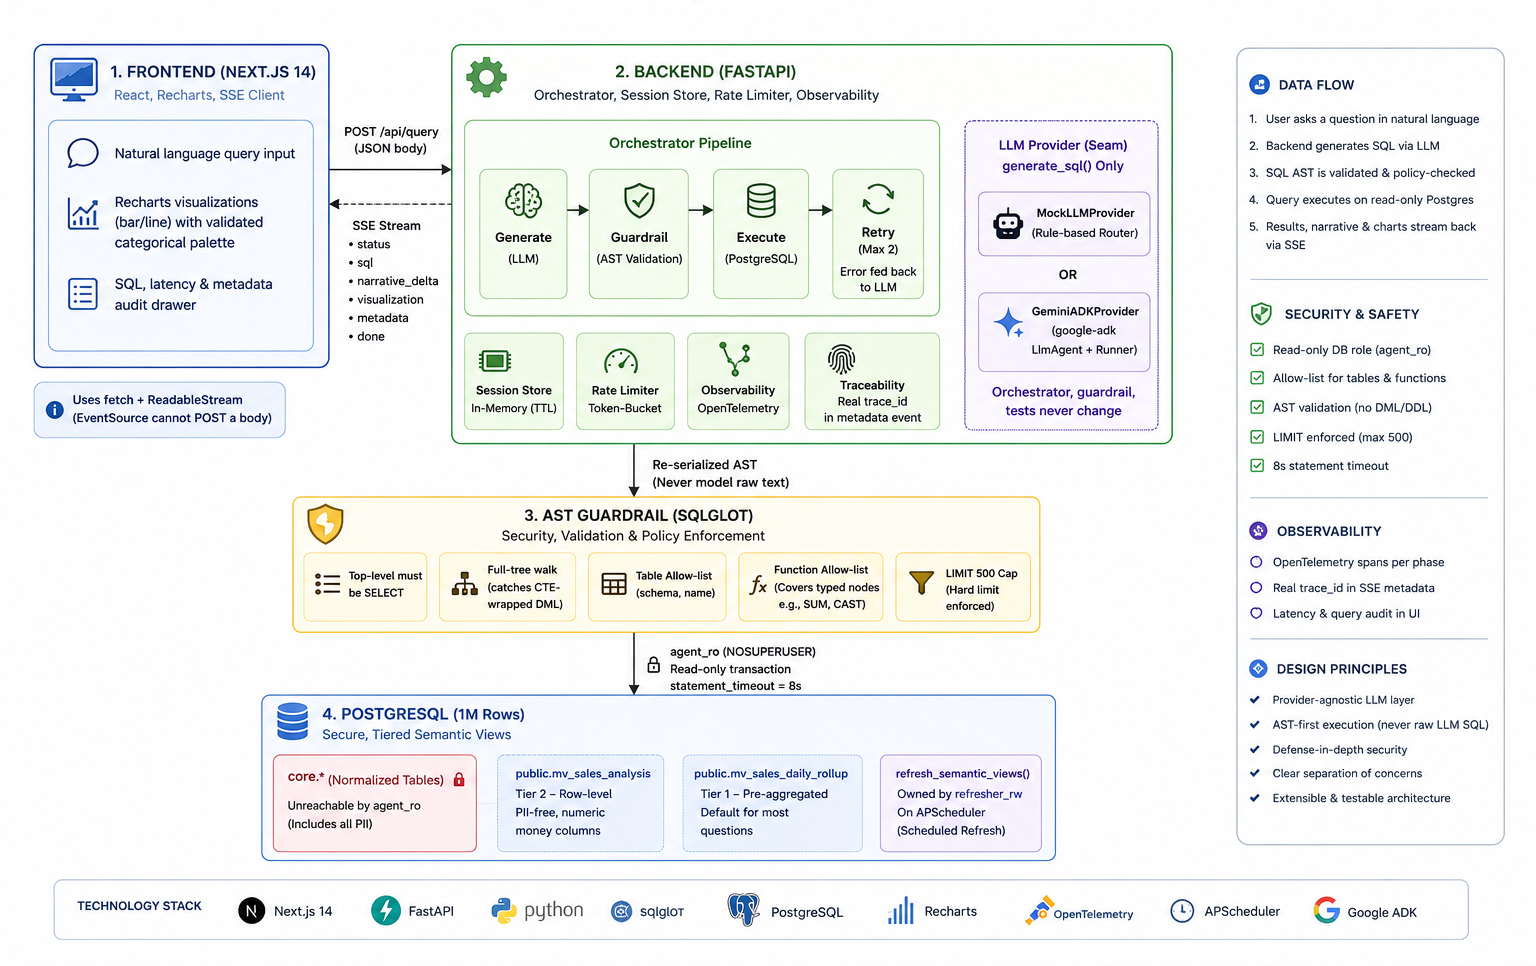
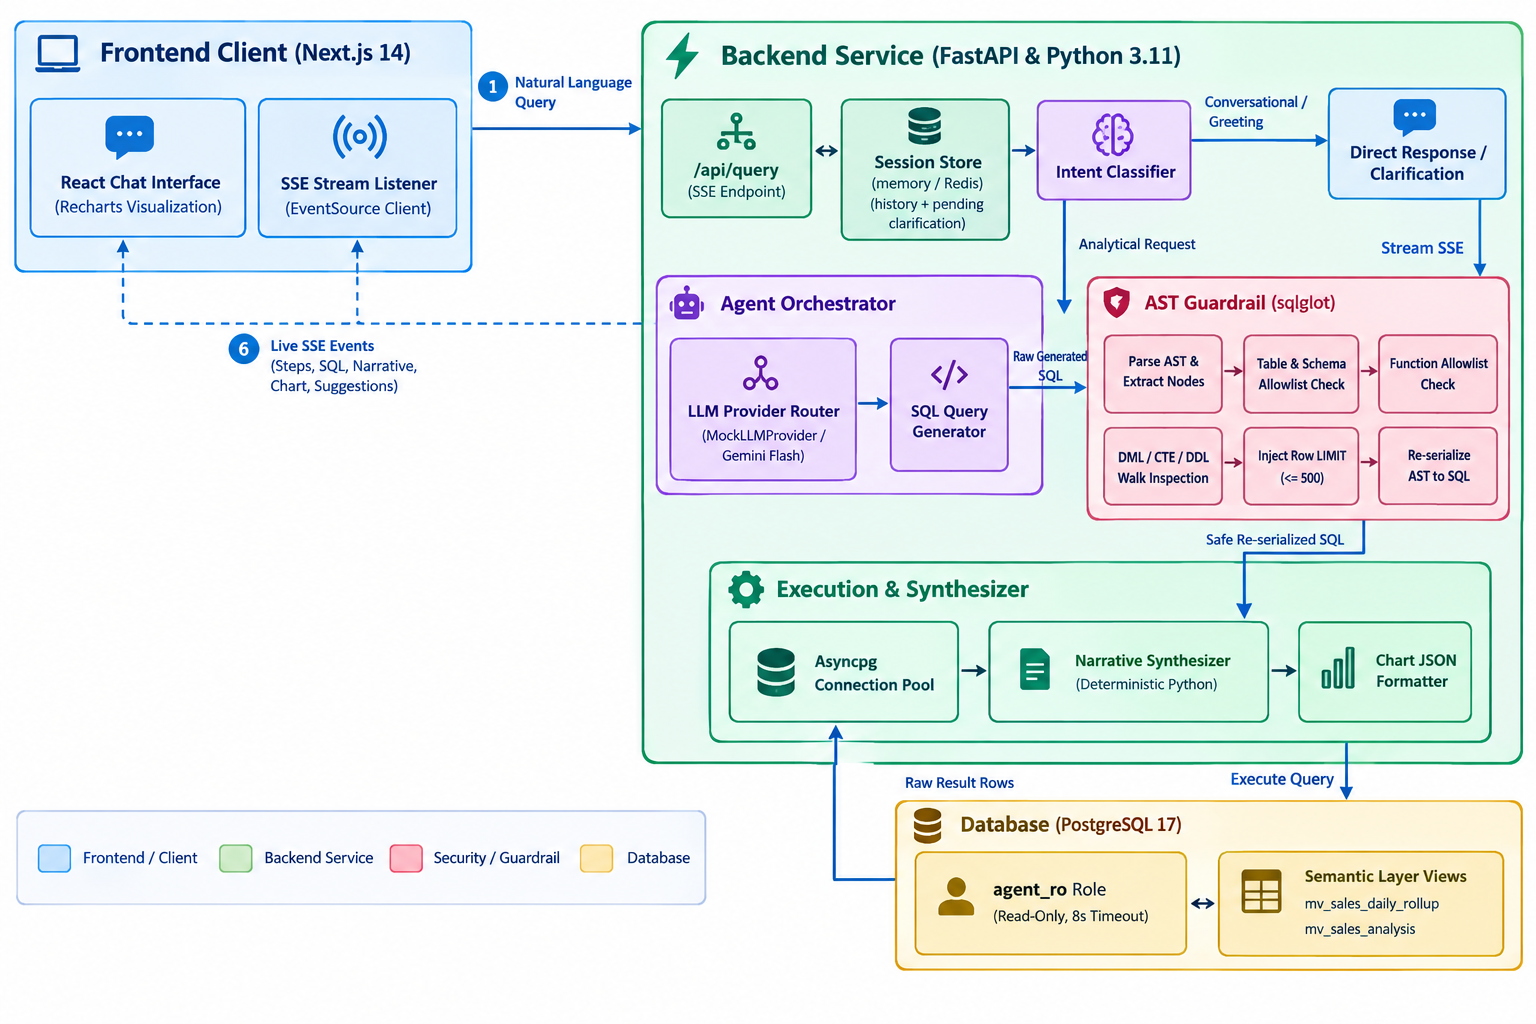
docs: replace architecture Mermaid diagrams with static PNGs
Swap both Mermaid flowcharts in the Architecture section for the
architecture.png / database_schema_architecture.png diagrams, embedded as
plain <img> tags (not markdown ![]() syntax, which GitHub auto-wraps in a
link to the raw file - see a13faba for the same fix applied previously).
Keeps the diagrams from redirecting to a new tab on click while still
letting GitHub's native in-page image zoom work.

Claude-Session: https://claude.ai/code/session_01BKGDkPeQBgdbtcMRbsf86m

diff --git a/README.md b/README.md
@@ -66,129 +66,13 @@ When the stack is running via `docker compose up -d`:
 
 ### 1. Request Processing & Guardrail Pipeline
 
-```mermaid
-flowchart TD
-    subgraph ClientLayer["🖥 Frontend Client (Next.js 14)"]
-        UI["React Chat Interface<br/>(Recharts Visualization)"]
-        SSEClient["SSE Stream Listener<br/>(EventSource Client)"]
-    end
-
-    subgraph BackendAPI["⚡ Backend Service (FastAPI & Python 3.11)"]
-        Router["/api/query (SSE Endpoint)"]
-        SessionStore["Session Store: memory / Redis<br/>(history + pending clarification)"]
-        IntentClassifier{"Intent Classifier"}
-        DirectResponse["Direct Answer / Clarification"]
-        
-        subgraph AgentCore["🤖 Agent Orchestrator"]
-            LLMRouter["LLM Provider Router<br/>(MockLLMProvider / Gemini Flash)"]
-            SQLGen["SQL Query Generator"]
-        end
-        
-        subgraph Guardrail["🛡 AST Guardrail (sqlglot)"]
-            ASTParse["Parse AST & Extract Nodes"]
-            TableCheck{"Table & Schema<br/>Allowlist Check"}
-            FuncCheck{"Function Allowlist<br/>Check"}
-            DMLCheck{"DML / CTE / DDL<br/>Walk Inspection"}
-            LimitInject["Inject Row LIMIT (<= 500)"]
-            Reserialize["Re-serialize AST to SQL"]
-        end
-
-        subgraph Engine["⚙ Execution & Synthesizer"]
-            AsyncpgClient["Asyncpg Connection Pool"]
-            NarrativeSynth["Deterministic Python<br/>Narrative Synthesizer"]
-            ChartConfig["Chart JSON Formatter"]
-        end
-    end
-
-    subgraph DBLayer["🗄 Database (PostgreSQL 17)"]
-        AgentRO[("agent_ro Role<br/>(Read-Only, 8s Timeout)")]
-        SemanticViews[("Semantic Layer Views<br/>mv_sales_daily_rollup<br/>mv_sales_analysis")]
-    end
-
-    UI -->|"1. Natural Language Query"| Router
-    Router <--> SessionStore
-    Router --> IntentClassifier
-    IntentClassifier -->|"Conversational / Greeting"| DirectResponse -->|"Stream SSE"| SSEClient
-    IntentClassifier -->|"Analytical Request"| LLMRouter
-    LLMRouter --> SQLGen
-    SQLGen -->|"Raw Generated SQL"| ASTParse
-    ASTParse --> TableCheck
-    TableCheck --> FuncCheck
-    FuncCheck --> DMLCheck
-    DMLCheck --> LimitInject
-    LimitInject --> Reserialize
-    
-    Reserialize -->|"Safe Re-serialized SQL"| AsyncpgClient
-    AsyncpgClient -->|"Execute Query"| AgentRO
-    AgentRO --> SemanticViews
-    SemanticViews -->|"Raw Result Rows"| AsyncpgClient
-    
-    AsyncpgClient --> NarrativeSynth
-    NarrativeSynth --> ChartConfig
-    ChartConfig -->|"Live SSE Events (Steps, SQL, Narrative, Chart, Suggestions)"| SSEClient
-    SSEClient --> UI
-
-    classDef client fill:#e0f2fe,stroke:#0284c7,stroke-width:2px,color:#0369a1;
-    classDef backend fill:#f0fdf4,stroke:#16a34a,stroke-width:2px,color:#15803d;
-    classDef security fill:#fef2f2,stroke:#dc2626,stroke-width:2px,color:#b91c1c;
-    classDef db fill:#fefce8,stroke:#ca8a04,stroke-width:2px,color:#a16207;
-
-    class UI,SSEClient client;
-    class Router,SessionStore,IntentClassifier,DirectResponse,LLMRouter,SQLGen,AsyncpgClient,NarrativeSynth,ChartConfig backend;
-    class ASTParse,TableCheck,FuncCheck,DMLCheck,LimitInject,Reserialize security;
-    class AgentRO,SemanticViews db;
-```
+<img src="./architecture.png" alt="Request processing and AST guardrail pipeline - from browser query through intent classification, SQL generation, the AST guardrail, PostgreSQL execution, and back as narrative + chart SSE events" width="100%">
 
 ---
 
 ### 2. Database Schema Architecture & Semantic Lineage
 
-```mermaid
-flowchart TD
-    subgraph RawData["📦 Seed Data (1,000,000 Records)"]
-        CSV["db/seed/*.csv.gz"]
-    end
-
-    subgraph CoreSchema["🔒 Core 3NF Normalized Schema (core.*)"]
-        FactTable["core.fact_table<br/>(1M fact records, unit/total price numeric)"]
-        DimItem["core.item_dim<br/>(item_name, supplier, man_country)"]
-        DimStore["core.store_dim<br/>(division, district, upazila)"]
-        DimPayment["core.payment_dim<br/>(trans_type, bank_name)"]
-        DimTime["core.time_dim<br/>(date, year, quarter, month, day)"]
-        DimCustomer["core.customer_dim<br/>⚠ PII ISOLATED & EXCLUDED"]
-    end
-
-    subgraph SecurityBoundary["🛡 Security & Role Isolation"]
-        RefresherRole["refresher_rw Role<br/>(Owner of Materialized Views)"]
-        AgentRole["agent_ro Role<br/>(SELECT on public.* views only)"]
-    end
-
-    subgraph SemanticLayer["📊 2-Tier Semantic Layer (public.*)"]
-        Tier2["public.mv_sales_analysis<br/>• Tier 2: Row-level OBT for deep drilldowns<br/>• Surrogate fact_key, strict PII removal<br/>• Indexed by date, location, item"]
-        Tier1["public.mv_sales_daily_rollup<br/>• Tier 1: Pre-aggregated daily rollup<br/>• Grouped by date, year, month, division, district, item<br/>• SUM(total_revenue), SUM(total_units_sold), COUNT(*)"]
-    end
-
-    CSV -->|"gunzip + \copy on init"| FactTable & DimItem & DimStore & DimPayment & DimTime & DimCustomer
-
-    FactTable & DimItem & DimStore & DimPayment & DimTime -->|"Inner Join & PII Sanitization"| Tier2
-    Tier2 -->|"Daily Aggregation Rollup"| Tier1
-
-    RefresherRole -->|"APScheduler REFRESH CONCURRENTLY"| Tier2
-    RefresherRole -->|"APScheduler REFRESH CONCURRENTLY"| Tier1
-
-    AgentRole -->|"Read-Only Queries"| Tier1
-    AgentRole -->|"Read-Only Queries"| Tier2
-
-    classDef raw fill:#f3f4f6,stroke:#4b5563,stroke-width:1px,color:#1f2937;
-    classDef core fill:#fee2e2,stroke:#ef4444,stroke-width:2px,color:#991b1b;
-    classDef semantic fill:#dcfce7,stroke:#22c55e,stroke-width:2px,color:#166534;
-    classDef roles fill:#fef3c7,stroke:#f59e0b,stroke-width:2px,color:#92400e;
-
-    class CSV raw;
-    class FactTable,DimItem,DimStore,DimPayment,DimTime,DimCustomer core;
-    class Tier1,Tier2 semantic;
-    class RefresherRole,AgentRole roles;
-```
+<img src="./database_schema_architecture.png" alt="Database schema architecture - normalized core.* 3NF schema, role isolation (agent_ro / refresher_rw), and the two-tier public.* semantic layer (mv_sales_analysis, mv_sales_daily_rollup)" width="100%">
 
 ---
 
@@ -205,39 +89,7 @@ The project includes an intelligent, colorized **Makefile** that automates conta
 make setup && make up
 ```
 
-Type `make` or `make help` to inspect all available targets:
-
-```
-Retail Agentic Copilot — Automation CLI
-
-Usage: make <target>
-
-  help                 Display this interactive help menu
-  setup                Initialize environment, secrets, and install backend dependencies
-  init-env             Create .env from .env.example if not already present
-  init-secrets         Ensure Docker secret files exist from .example templates
-  install              Install backend dependencies locally
-  up                   Build and launch full container stack (DB + Backend + Frontend)
-  down                 Stop and remove all containers and network bridges
-  restart              Restart the full container stack
-  ps                   List running containers and health statuses
-  logs                 Tail streaming logs from all services
-  logs-backend         Tail streaming logs from FastAPI backend
-  logs-db              Tail streaming logs from PostgreSQL database
-  logs-frontend        Tail streaming logs from Next.js frontend
-  db-shell-agent       Open psql shell as agent_ro role (read-only semantic layer)
-  db-shell-admin       Open psql shell as postgres superuser
-  db-reset             Hard reset database volume and re-seed 1M records (Caution: wipes data)
-  test                 Run unit and integration tests with pytest
-  test-slow            Run slow integration tests (including materialized view refresh)
-  eval                 Run Execution Accuracy (EX) benchmark with default mock router
-  eval-gemini          Run Execution Accuracy (EX) benchmark with Gemini provider
-  api-health           Verify backend health check via HTTP request
-  clean                Remove temporary python bytecode and test cache artifacts
-  clean-all            Complete teardown: remove containers, volumes, networks, and caches
-
-Quick Start: make setup && make up
-```
+Type `make` or `make help` to inspect all available targets.
 
 ---
 
@@ -518,8 +370,3 @@ Building against real 1,000,000-row retail data uncovered multiple subtle bugs t
 - **Eval Dataset Scope**: Golden evaluation set currently includes 30 representative test cases; expanding to 100+ cases is ongoing.
 - **Frontend Dependencies**: Built on Next.js 14 for stability; upgrade paths to Next.js 16 will follow upstream LTS patches.
 
----
-
-## 📄 License
-
-This project is licensed under the MIT License - see the [LICENSE](LICENSE) file for details.
